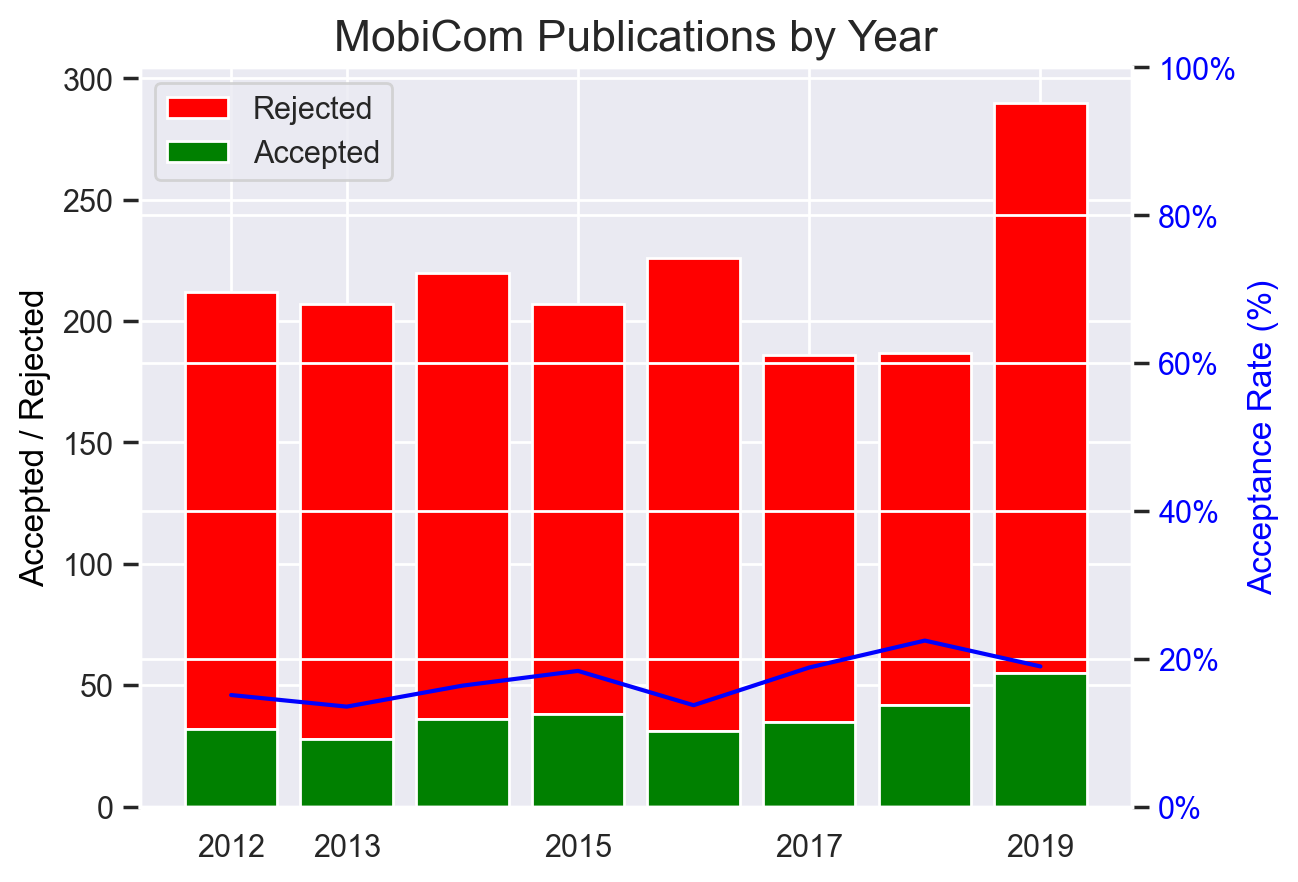
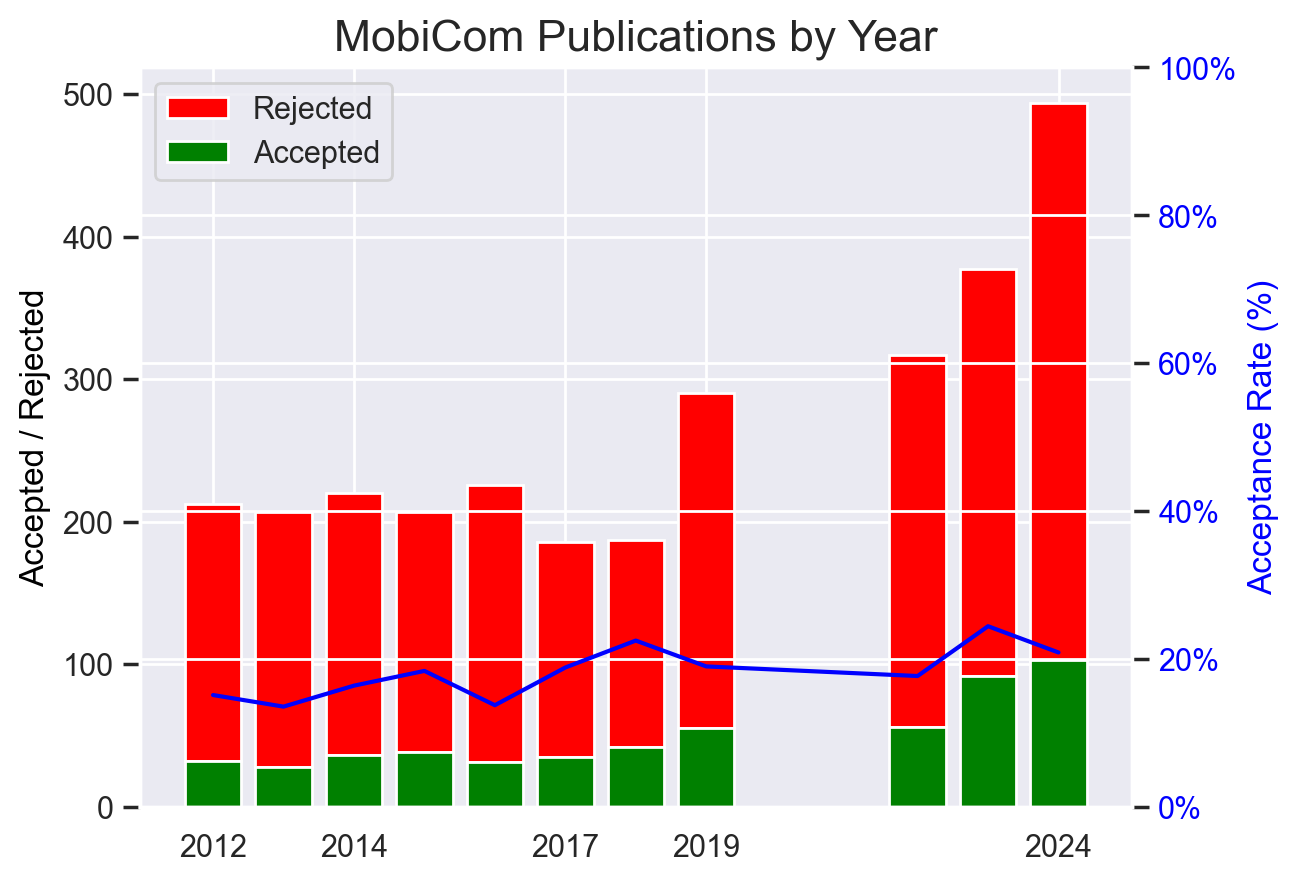
Updated MobiCom.

diff --git a/README.md b/README.md
@@ -164,7 +164,7 @@
 </summary>
 <A NAME="MobiCom"></A>
 <P><B><A HREF="https://dblp.org/db/conf/mobicom/index.html">MobiCom</A></B>
- <em>mean acceptance rate, last 5 years: 18%</em></P>
+ <em>mean acceptance rate, last 5 years: 21%</em></P>
 <IMG SRC="https://github.com/emeryberger/csconferences/blob/main/graphs/MobiCom.png?raw=true" WIDTH="500">
 </details>
 <details>
